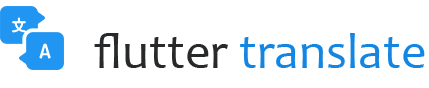
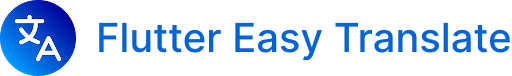
Adding readme content

diff --git a/README.md b/README.md
@@ -1,0 +1,220 @@
+
+[<img src="resources/images/flutter_easy_translate.png" />](https://github.com/belabiedredouane/flutter_easy_translate)
+
+[![pub package](https://img.shields.io/pub/v/flutter_easy_translate.svg?color=important)](https://pub.dev/packages/flutter_easy_translate)
+[![License: MIT](https://img.shields.io/badge/License-MIT-ff69b4.svg)](https://github.com/belabiedredouane/flutter_easy_translate/blob/main/LICENSE)
+[![Flutter.io](https://img.shields.io/badge/Flutter-Website-deepskyblue.svg)](https://flutter.io/)
+
+---
+
+Flutter Translate is a fully featured localization / internationalization (i18n) library for Flutter.
+
+It lets you define translations for your content in different languages and switch between them easily.
+
+# Features
+
+* Very easy to use
+* ```Mobile```, ```Web``` and ```Desktop``` support
+* ```Pluralization``` and ```Duals``` support 
+* Supports both ``languageCode (en)`` and ``languageCode_countryCode (en_US)`` locale formats 
+* Automatically ```save & restore``` the selected locale [with a simple implementation](#automatically-saving-and-restoring-the-selected-locale)
+* Full support for ```right-to-left``` locales
+* ``Fallback`` locale support in case the system locale is unsupported
+* Supports both ``inline or nested`` JSON
+
+# Documentation
+
+## Installation
+
+Add this to your package's pubspec.yaml file:
+
+```sh
+dependencies:
+  flutter_easy_translate: <latest version>
+```
+
+Install packages from the command line (or from your editor):
+
+```sh
+flutter pub get
+```
+
+## Configuration
+
+Import flutter_easy_translate:
+
+```dart
+import 'package:flutter_easy_translate/flutter_easy_translate.dart';
+```
+
+Place the *json* localization files in a folder of your choice within the project.
+
+By default ```flutter_easy_translate``` will search for localization files in the `assets/i18n` directory in your project's root.
+
+Declare your assets localization directory in ```pubspec.yaml```
+
+```sh
+flutter:
+  assets:
+    - assets/i18n/
+```
+
+In the main function create the localization delegate and start the app, wrapping it with LocalizedApp
+
+```dart
+void main() async
+{
+  var delegate = await LocalizationDelegate.create(
+        fallbackLocale: 'en_US',
+        supportedLocales: ['en_US', 'es', 'fa']);
+
+  runApp(LocalizedApp(delegate, MyApp()));
+}
+```
+
+If the assets directory for the localization files is different than the default one (```assets/i18n```), you need to specify it:
+
+```dart
+ var delegate = await LocalizationDelegate.create(
+      ...
+        basePath: 'assets/i18n/'
+      ...
+```
+
+Example MyApp:
+
+```dart
+class MyApp extends StatelessWidget {
+
+  @override
+  Widget build(BuildContext context) {
+
+    var localizationDelegate = LocalizedApp.of(context).delegate;
+
+    return LocalizationProvider(
+      state: LocalizationProvider.of(context).state,
+      child: MaterialApp(
+        title: 'Flutter Translate Demo',
+        localizationsDelegates: [
+          GlobalMaterialLocalizations.delegate,
+          GlobalWidgetsLocalizations.delegate,
+          localizationDelegate
+        ],
+        supportedLocales: localizationDelegate.supportedLocales,
+        locale: localizationDelegate.currentLocale,
+        theme: ThemeData(primarySwatch: Colors.blue),
+        home: MyHomePage(),
+        ),
+      );
+  }
+}
+```
+
+## Usage
+
+Translate a string:
+
+```dart
+translate('your.localization.key');
+```
+
+Translate with arguments;
+
+```dart
+translate('your.localization.key', args: {'argName1': argValue1, 'argName2': argValue2});
+```
+
+Translate with pluralization:
+
+```dart
+translatePlural('plural.demo', yourNumericValue);
+```
+
+JSON:
+
+```json
+"plural": {
+    "demo": {
+       "zero": "Please start pushing the 'plus' button.",
+	"one": "You have pushed the button one time.",
+	"two": "You have pushed the button two times.",
+	"other": "You have pushed the button {{value}} times."
+    }
+}
+```
+
+Change the language:
+
+```dart
+@override
+Widget build(BuildContext context) {
+...
+  ...
+    changeLocale(context, 'en_US');
+  ...
+...
+}
+```
+
+# Automatically saving and restoring the selected locale
+[Flutter Easy Translate](https://github.com/belabiedredouane/flutter_easy_translate) can automatically save the selected locale and restore it after application restart.
+
+This can be done by passing an implementation of [ITranslatePreferences](https://github.com/belabiedredouane/flutter_easy_translate/blob/main/lib/src/interfaces/translate_preferences.dart) during delegate creation:
+
+```dart
+ var delegate = await LocalizationDelegate.create(
+      ...
+        preferences: TranslatePreferences()
+      ...
+```
+
+Example implementation using the [shared_preferences](https://pub.dev/packages/shared_preferences) package:
+
+```dart
+import 'dart:ui';
+import 'package:flutter_translate/flutter_translate.dart';
+import 'package:shared_preferences/shared_preferences.dart';
+
+class TranslatePreferences implements ITranslatePreferences
+{
+    static const String _selectedLocaleKey = 'selected_locale';
+
+    @override
+    Future<Locale> getPreferredLocale() async
+    {
+        final preferences = await SharedPreferences.getInstance();
+
+        if(!preferences.containsKey(_selectedLocaleKey)) return null;
+
+        var locale = preferences.getString(_selectedLocaleKey);
+
+        return localeFromString(locale);
+    }
+
+    @override
+    Future savePreferredLocale(Locale locale) async
+    {
+        final preferences = await SharedPreferences.getInstance();
+
+        await preferences.setString(_selectedLocaleKey, localeToString(locale));
+    }
+}
+```
+
+And don't forget to reference the shared_preferences package in pubspec.yaml
+
+```dart
+dependencies:
+  shared_preferences: <latest version>
+```
+
+## Example
+
+https://github.com/belabiedredouane/flutter_easy_translate/tree/main/example
+
+## Issues
+Please file any issues, bugs or feature request [here](https://github.com/belabiedredouane/flutter_easy_translate/issues).
+
+## License
+
+This project is licensed under the [MIT License](https://github.com/belabiedredouane/flutter_easy_translate/blob/main/LICENSE)
